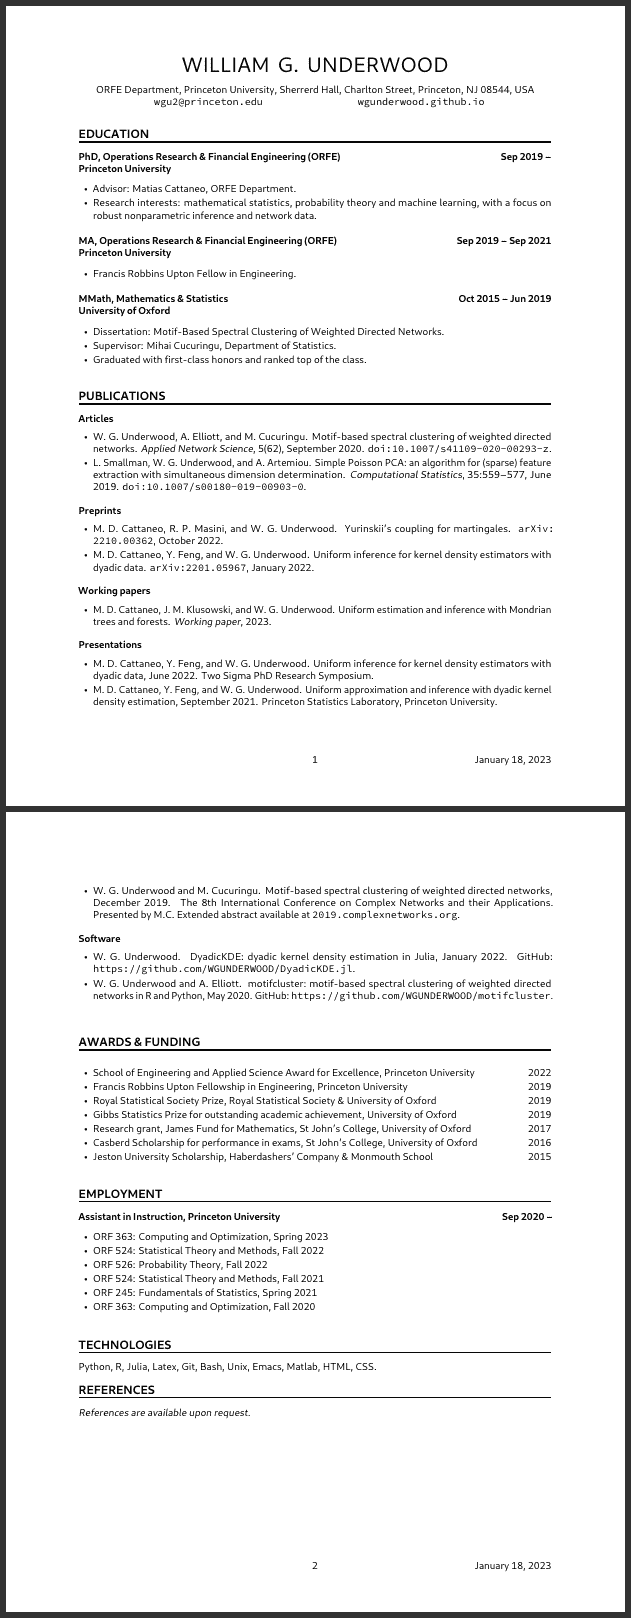
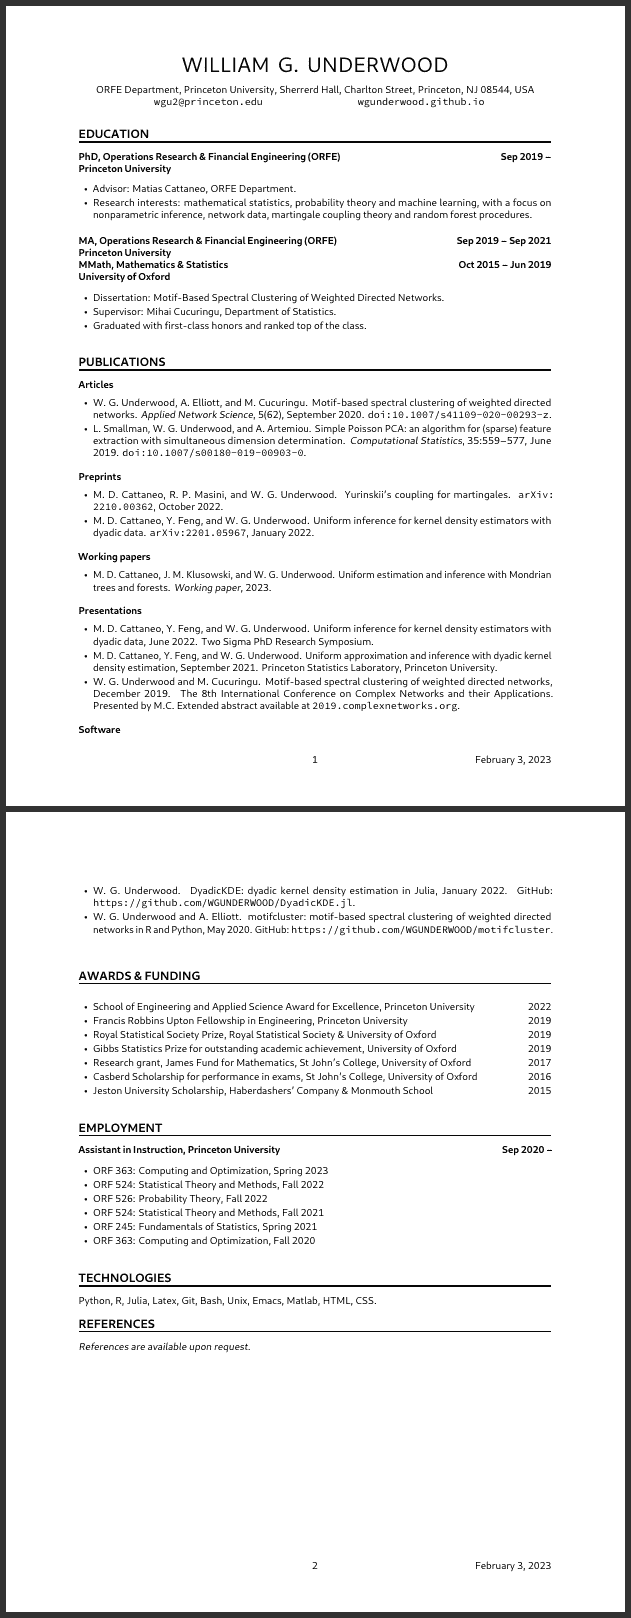
tidying MA degree

diff --git a/WGUnderwood.tex b/WGUnderwood.tex
@@ -53,18 +53,17 @@
     mathematical statistics, probability theory
     and machine learning,
     with a focus on
-    robust nonparametric inference
-    and network data.
+    nonparametric inference,
+    network data,
+    martingale coupling theory and
+    random forest procedures.
 \end{itemize}
 
 \cvsubsection{MA, Operations Research \& Financial Engineering (ORFE)}
 {Princeton University}
 {Sep 2019 -- Sep 2021}
 
-\begin{itemize}
-  \item Francis Robbins Upton Fellow in Engineering.
-\end{itemize}
-
+\bigskip
 
 \cvsubsection{MMath, Mathematics \& Statistics}
 {University of Oxford}
